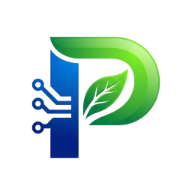
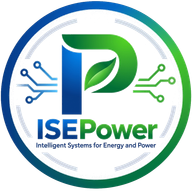
Use ISEPower branding and fix corrupted text separators

diff --git a/src/data/team.ts b/src/data/team.ts
@@ -10,7 +10,7 @@ export interface TeamMember {
 // Replace this placeholder and add one entry per confirmed team member.
 // No team size or identities have been assumed.
 export const team: TeamMember[] = [{
-  name: 'Team member ? to be added',
+  name: 'Team member — to be added',
   role: 'Role to be defined',
   bio: 'Member details and a short biography will be added during the project.',
 }];
